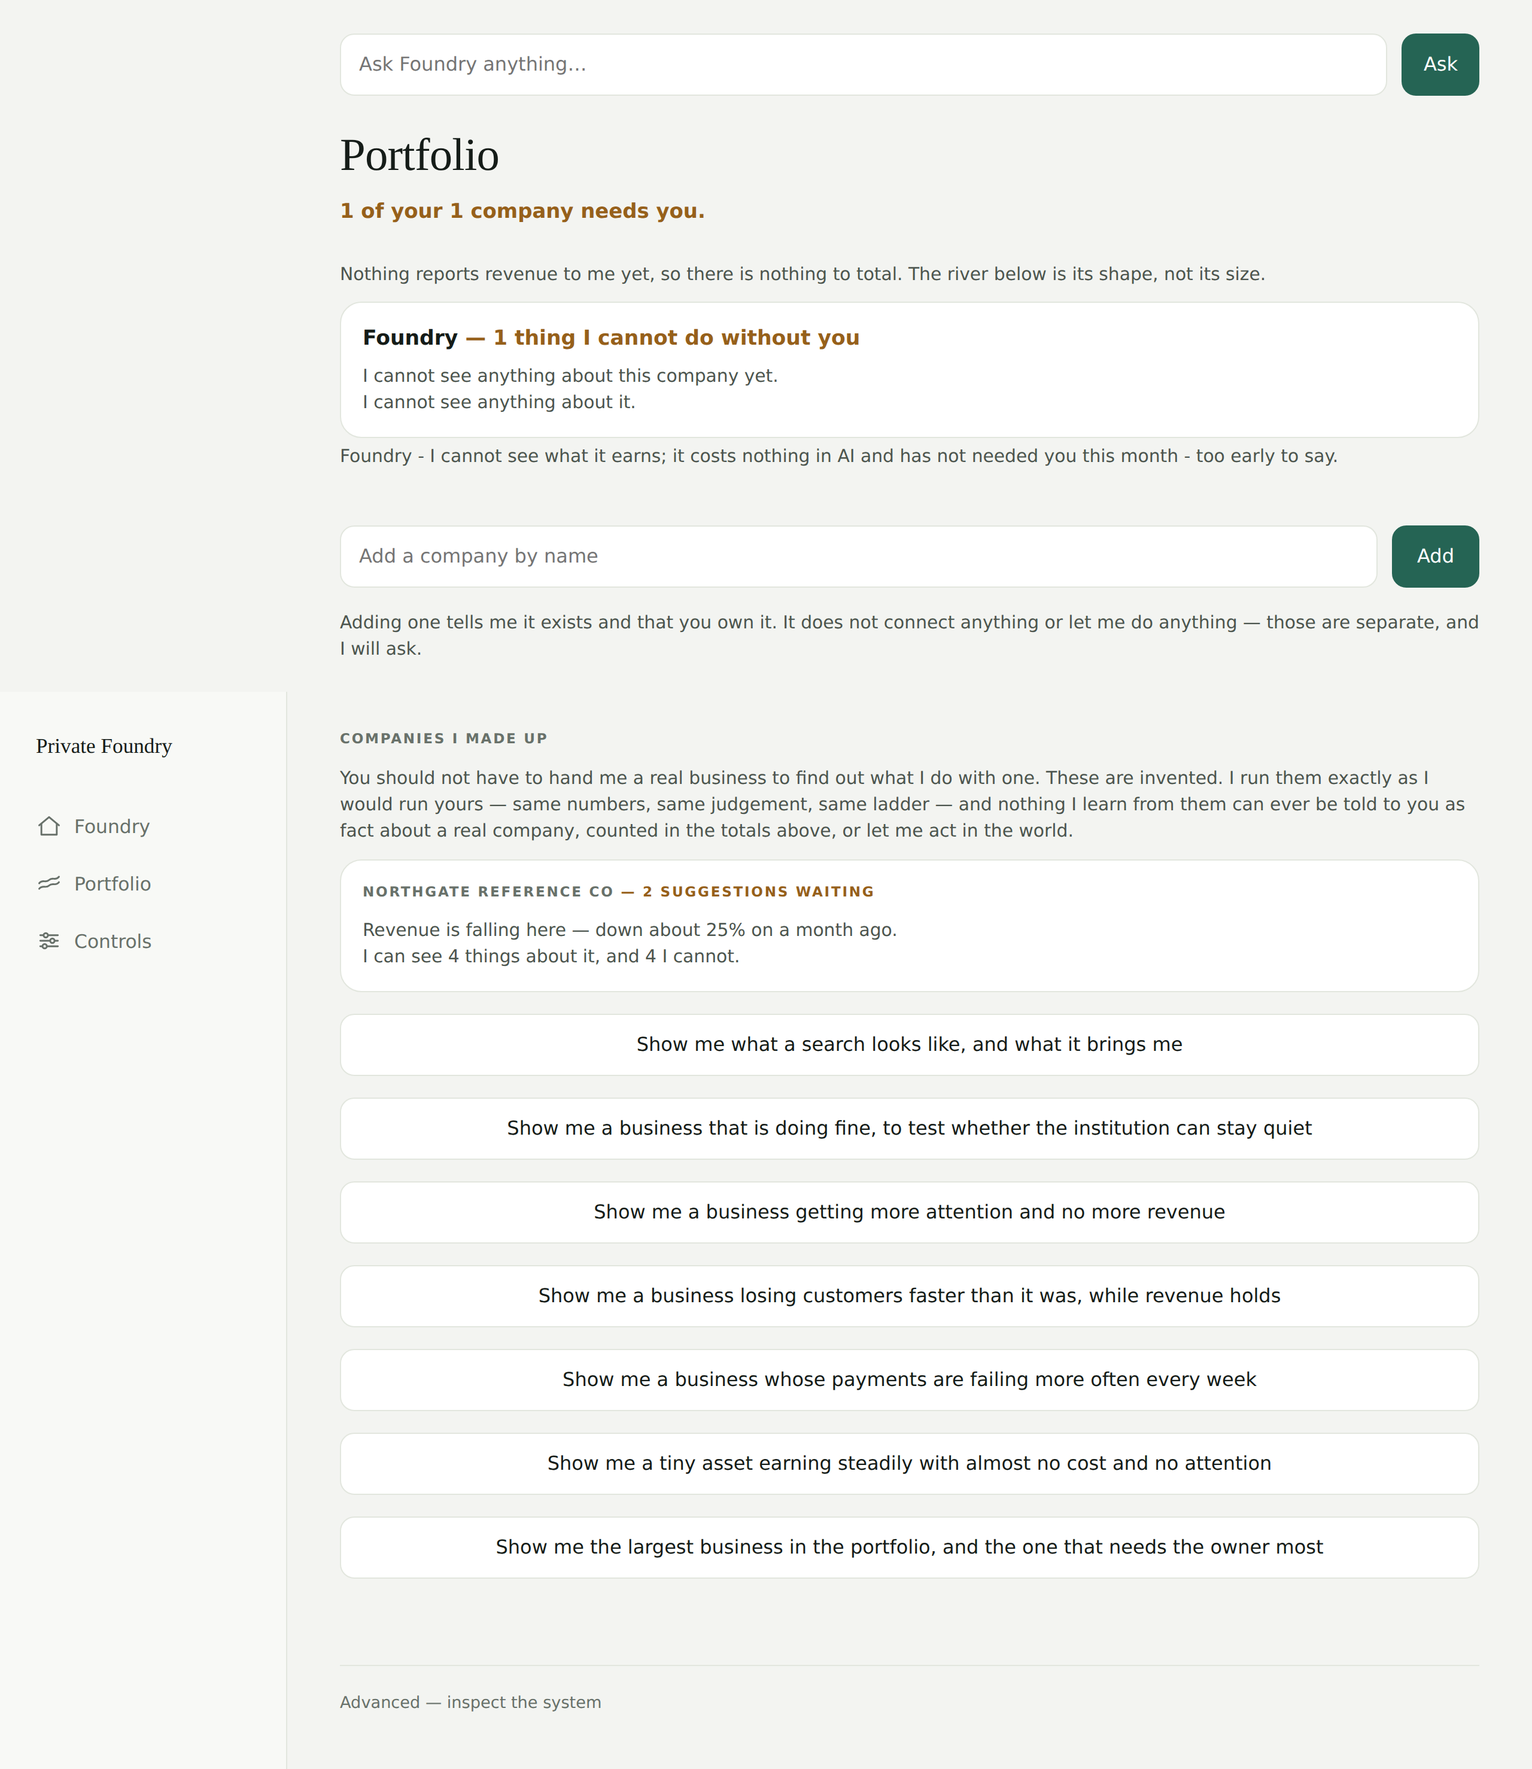
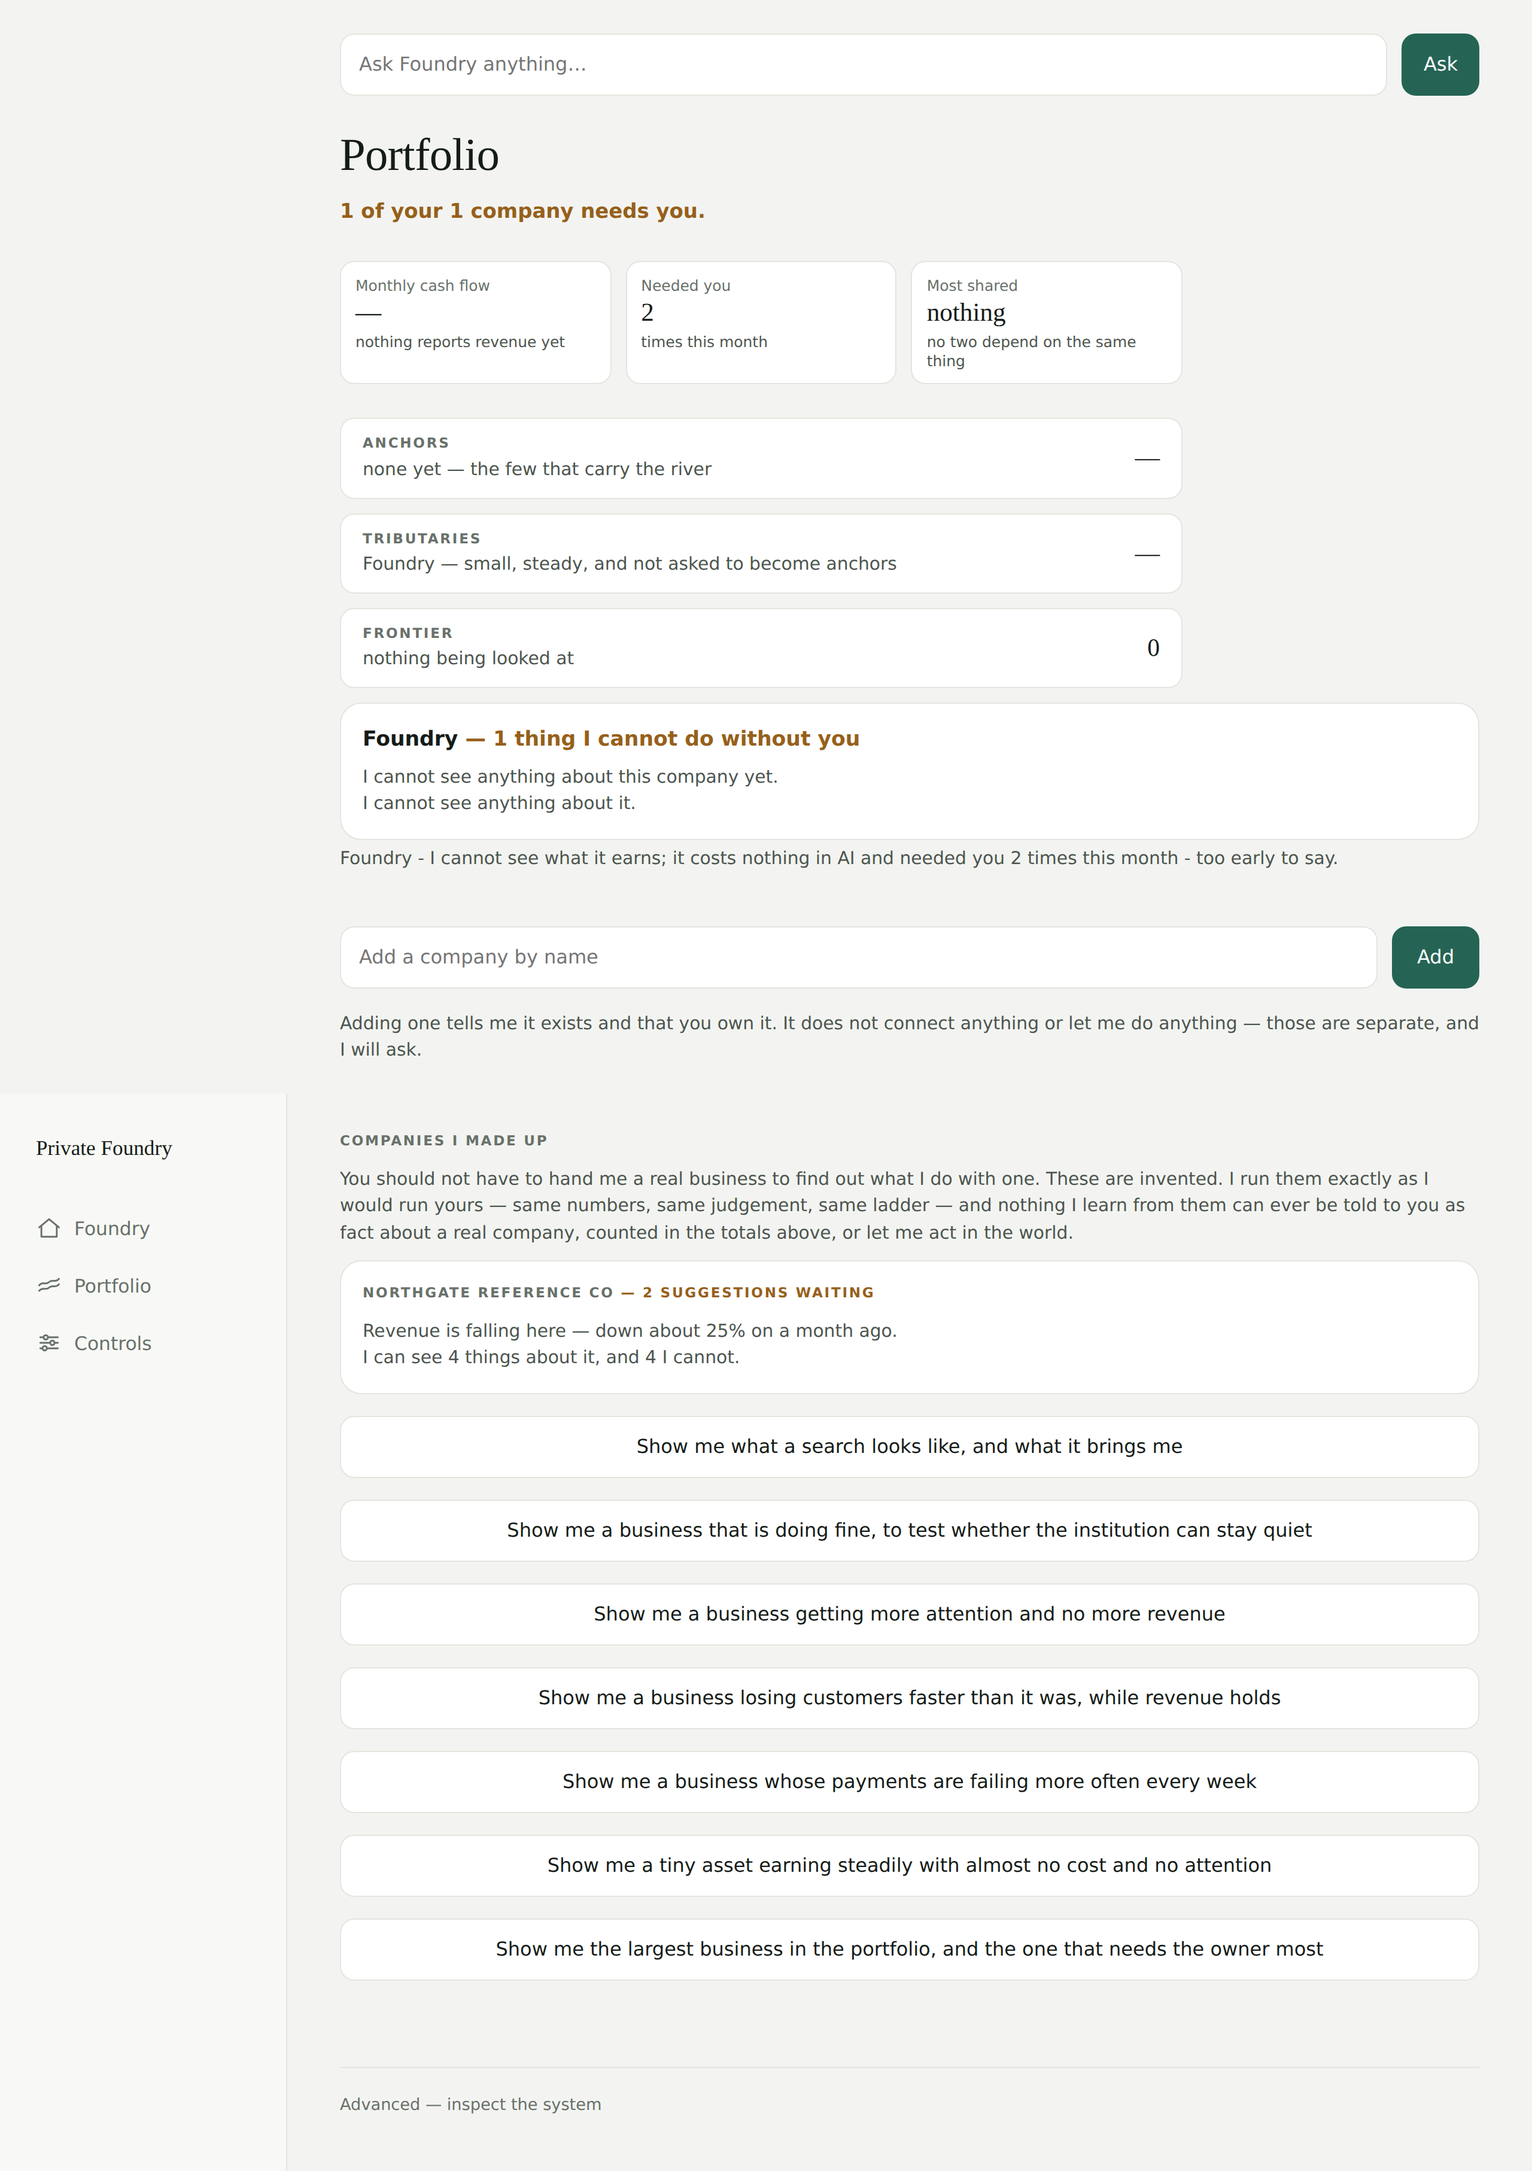
A number is only as good as the reading behind it [deploy-private]
MONTHLY CASH FLOW SUMMED READINGS OF ANY AGE. The subquery took each company's
most recent snapshot that ever existed, with no lower bound — so a business that
stopped reporting eight months ago kept contributing its final figure to today's
total, forever, and was counted among the companies Foundry "can see". Bounded
to forty-five days in all four places it is read. A company that has gone quiet
now falls out of the total and into the count of what cannot be seen, which is
what has actually happened to it.

"ON A MONTH AGO" COMPARED AGAINST A READING OF ANY AGE. The comparison took the
newest reading at least thirty days old and nothing stopped it being five
hundred days old. A company that reported twice — last week and two years ago —
had every one of its numbers described as having moved "on a month ago". The
window has a far edge now, and outside it there is no comparison, which the
sentences already knew how to say.

A PERCENTAGE OF ALMOST NOTHING IS NOT A PERCENTAGE. One signup becoming three
rendered as "up about 200%", which makes a business look like it is tripling.
Below a floor the absolute move is stated instead — "1 to 3 since a month ago,
too few to put a percentage on" — which is both honest and more useful: he can
see the numbers and decide for himself whether it is anything.

"NEEDED YOU" COUNTED WHAT HE GOT ROUND TO. The tile counted rows by the date he
answered, so a question raised three weeks ago and still sitting there counted
[…]

diff --git a/src/routes/dashboard/foundry-shell.ts b/src/routes/dashboard/foundry-shell.ts
@@ -308,7 +308,14 @@ interface OwnerState {
     path: string; verification: string[]; matched: number; wrong: number;
     /** WHICH OF THE THREE THINGS CALLED FOUNDRY this change would touch. */
     layer: string; layerPlainly: string }>;
-  budgetMonthly: number;
+  /**
+   * WHAT HE SET, OR NULL BECAUSE HE HAS NOT.
+   *
+   * This was rendered as "the limit you set", and nothing in the system has
+   * ever written to the column — it is a migration default of 50, attributed to
+   * him as his own decision on a page about what he has told Foundry it may do.
+   */
+  budgetMonthly: number | null;
   spent30d: number;
   connectedSenses: string[];
   establishedAt: string | null;
@@ -521,7 +528,8 @@ async function readOwnerState(
       const known = Object.values(CHECK_IN_PLAIN_WORDS).find((p) => proposal.includes('schema'));
       return { id: String(d.id), title: known?.name ?? proposal };
     }),
-    budgetMonthly: Number(product?.operating_budget_monthly_usd ?? 0),
+    budgetMonthly: product?.operating_budget_monthly_usd == null ? null
+      : Number(product.operating_budget_monthly_usd),
     spent30d: Number(product?.ai_cost_trailing_30d_usd ?? 0),
     connectedSenses: product?.github_repo_url ? ['its code'] : [],
     establishedAt: product?.created_at == null ? null : String(product.created_at).slice(0, 10),
@@ -1938,8 +1946,8 @@ function answerTo(key: string, s: OwnerState, a: Attention,
       ${s.connectedSenses.length === 0 ? html`<p>In practice I cannot use it: I have no way
         to reach the repository, so nothing I could change is reachable from here.</p>` : ''}`}
       <p>${s.spent30d === 0
-    ? html`I have spent nothing. Your limit is $${String(s.budgetMonthly)} a month.`
-    : html`I have spent $${s.spent30d.toFixed(2)} of your $${String(s.budgetMonthly)} this month.`}</p>
+    ? html`I have spent nothing.`
+    : html`I have spent $${s.spent30d.toFixed(2)} this month.`}</p>
     </div>`;
   }
 
@@ -2304,7 +2312,7 @@ foundryShellRoutes.get('/foundry', async (c) => {
  */
 interface CompanyView {
   id: string; name: string; established: string | null;
-  budgetMonthly: number; spent30d: number;
+  budgetMonthly: number | null; spent30d: number;
   knows: string[]; gaps: Array<{ missing: string; unlocks: string; connect: string | null }>;
   responsibilities: Array<{ title: string; state: string }>;
   numbers: CompanyNumbers;
@@ -2575,7 +2583,8 @@ async function readCompany(productId: string, founderId: string): Promise<Compan
         : p.costCents === 0 ? 'nothing'
           : `$${(p.costCents / 100).toFixed(2)}`,
     })),
-    budgetMonthly: Number(row.operating_budget_monthly_usd ?? 0),
+    budgetMonthly: row.operating_budget_monthly_usd == null ? null
+      : Number(row.operating_budget_monthly_usd),
     spent30d: Number(row.ai_cost_trailing_30d_usd ?? 0),
     knows, gaps,
     responsibilities: responsibilities.map((r) => ({
@@ -2638,6 +2647,7 @@ foundryShellRoutes.get('/foundry/companies', async (c: any) => {
   const byForm = ((await query(
     `SELECT e.value, SUM(COALESCE((SELECT m.mrr_cents FROM metric_snapshots m
         WHERE m.product_id = p.id AND m.mrr_cents IS NOT NULL
+                AND m.snapshot_date >= date('now','-45 day')
         ORDER BY m.snapshot_date DESC LIMIT 1), 0)) AS cents
        FROM portfolio_exposures e JOIN products p ON p.id = e.subject_id
       WHERE e.founder_id = ? AND e.subject_kind = 'company' AND e.dimension = 'revenue_model'
@@ -4265,7 +4275,11 @@ foundryShellRoutes.get('/foundry/controls', async (c: any) => {
       <h3>Money</h3>
       <ul>
         <li>$${s.spent30d.toFixed(2)} spent in the last 30 days.</li>
-        <li>$${String(s.budgetMonthly)} a month is the limit you set for ${s.companyName}.</li>
+        <li>${s.budgetMonthly === null
+    ? html`You have not set a monthly limit for ${s.companyName}. The daily ceilings
+      below are what actually stops me.`
+    : html`$${String(s.budgetMonthly)} a month is the limit you set for
+      ${s.companyName}.`}</li>
         <li>I stop thinking for a company at $2 a day, and for everything at $5 a day.</li>
       </ul>
       <p class="quiet">Watching costs nothing — comparing my own records uses no thinking.</p>

diff --git a/tests/unit/a-number-is-only-as-good-as-its-reading.test.ts b/tests/unit/a-number-is-only-as-good-as-its-reading.test.ts
@@ -1,0 +1,71 @@
+process.env.TURSO_DATABASE_URL = 'file::memory:';
+process.env.ENCRYPTION_KEY = '0'.repeat(64);
+import { beforeAll, describe, expect, it } from 'vitest';
+import { runMigrations } from '../../src/db/migrate.js';
+import { query } from '../../src/db/client.js';
+import { whatTheNumbersSay } from '../../src/services/founder/what-the-numbers-say.js';
+
+// =============================================================================
+// A NUMBER IS ONLY AS GOOD AS THE READING BEHIND IT.
+//
+// Three ways the numbers on his screens described something that had not
+// happened, all found by a review against senior standards.
+//
+// "Monthly cash flow" summed each company's last-ever reading with no lower
+// bound, so a business that stopped reporting eight months ago kept
+// contributing its final figure to today's total, forever.
+//
+// "on a month ago" compared against the newest reading at least thirty days
+// old — with nothing stopping it being five hundred days old. A company that
+// reported twice, last week and two years ago, had every number described as
+// having moved "on a month ago".
+//
+// And a percentage of almost nothing is not a percentage: one signup becoming
+// three rendered as "up about 200%", which makes a business look like it is
+// tripling.
+// =============================================================================
+
+const CO = 'numbers_co';
+beforeAll(async () => {
+  await runMigrations();
+  await query('INSERT INTO founders (id,clerk_user_id,email,name) VALUES (?,?,?,?)',
+    ['n_owner', 'clerk_n', 'owner@example.com', 'Owner']);
+  await query('INSERT INTO products (id, owner_id, name, status) VALUES (?,?,?,?)',
+    [CO, 'n_owner', 'Tidewater', 'active']);
+});
+
+async function snapshot(date: string, fields: Record<string, number>): Promise<void> {
+  const cols = Object.keys(fields);
+  await query(
+    `INSERT INTO metric_snapshots (id, product_id, snapshot_date, ${cols.join(', ')})
+     VALUES (?,?,?,${cols.map(() => '?').join(',')})`,
+    [`s_${date}_${String(Math.random()).slice(2, 8)}`, CO, date, ...cols.map((c) => fields[c] ?? 0)]);
+}
+
+describe('what a comparison is allowed to compare against', () => {
+  it('refuses to call a two-year-old reading "a month ago"', async () => {
+    await snapshot('2024-01-01', { mrr_cents: 100_000, signups_7d: 40 });
+    await snapshot(new Date().toISOString().slice(0, 10),
+      { mrr_cents: 140_000, signups_7d: 60 });
+    const read = await whatTheNumbersSay(CO);
+    const revenue = read.numbers.find((n) => n.label.includes('revenue'));
+    expect(revenue?.direction, 'no comparison is possible').toBeNull();
+    expect(revenue?.sentence).toContain('nothing from a month ago');
+  });
+
+  it('states the absolute move when the base is too small for a percentage', async () => {
+    const monthAgo = new Date(Date.now() - 32 * 864e5).toISOString().slice(0, 10);
+    await query('DELETE FROM metric_snapshots WHERE product_id = ?', [CO]);
+    await snapshot(monthAgo, { signups_7d: 1, mrr_cents: 500_000 });
+    await snapshot(new Date().toISOString().slice(0, 10),
+      { signups_7d: 3, mrr_cents: 600_000 });
+    const read = await whatTheNumbersSay(CO);
+    const signups = read.numbers.find((n) => n.label.includes('signup'));
+    expect(signups?.movement, 'one to three is not two hundred per cent')
+      .toContain('too few to put a percentage on');
+    expect(signups?.movement).toContain('1 to 3');
+    // And a real base still gets a percentage.
+    const revenue = read.numbers.find((n) => n.label === 'monthly revenue');
+    expect(revenue?.movement).toContain('%');
+  });
+});

diff --git a/src/services/founder/what-the-numbers-say.ts b/src/services/founder/what-the-numbers-say.ts
@@ -88,7 +88,7 @@ function formatted(kind: 'money' | 'rate' | 'count', value: number): string {
  * the sentence says "about", because two readings do not support a decimal
  * place of confidence.
  */
-function movement(previous: number, current: number): {
+function movement(previous: number, current: number, kind?: string): {
   direction: 'rose' | 'fell' | 'held'; phrase: string;
 } {
   if (previous === 0 || !Number.isFinite(previous)) {
@@ -96,6 +96,25 @@ function movement(previous: number, current: number): {
       ? { direction: 'held', phrase: 'unchanged' }
       : { direction: current > 0 ? 'rose' : 'fell', phrase: 'newly reported' };
   }
+
+  // A PERCENTAGE OF ALMOST NOTHING IS NOT A PERCENTAGE.
+  //
+  // Three signups where there was one is "up about 200%", and that sentence
+  // makes a business look like it is tripling. The absolute move is the honest
+  // description of a small base, and it is also the more useful one: he can see
+  // it went from one to three and decide for himself whether that is anything.
+  const small = kind === 'count' ? 10 : kind === 'money' ? 5000 : 0;
+  if (small > 0 && Math.abs(previous) < small) {
+    if (current === previous) return { direction: 'held', phrase: 'unchanged' };
+    const from = kind === 'money'
+      ? `$${(previous / 100).toFixed(0)} to $${(current / 100).toFixed(0)}`
+      : `${String(previous)} to ${String(current)}`;
+    return {
+      direction: current > previous ? 'rose' : 'fell',
+      phrase: `${from} since a month ago — too few to put a percentage on`,
+    };
+  }
+
   const change = (current - previous) / Math.abs(previous);
   const pct = Math.abs(change) * 100;
   if (pct < 1.5) return { direction: 'held', phrase: 'about the same as a month ago' };
@@ -133,11 +152,19 @@ export async function whatTheNumbersSay(productId: string): Promise<CompanyNumbe
   // A MONTH AGO MEANS THE NEAREST READING TO A MONTH AGO, not a reading dated
   // exactly then. Companies report on their own cadence, and a strict date
   // match silently produces "no comparison" for anyone reporting weekly.
+  //
+  // AND A MONTH AGO IS NOT FIVE HUNDRED DAYS AGO. The window had no far edge,
+  // so a company that reported twice — once last week and once two years ago —
+  // had every one of its numbers described as "up about 40% on a month ago".
+  // Outside the window there is no comparison, which the sentences already know
+  // how to say.
   const prior = (await query(
     `SELECT ${columns.join(', ')} FROM metric_snapshots
-      WHERE product_id = ? AND snapshot_date <= date(?, '-30 day')
+      WHERE product_id = ? AND snapshot_date <= date(?, '-21 day')
+        AND snapshot_date >= date(?, '-60 day')
       ORDER BY snapshot_date DESC LIMIT 1`,
-    [productId, String(latest.snapshot_date)])).rows[0] as Record<string, unknown> | undefined;
+    [productId, String(latest.snapshot_date), String(latest.snapshot_date)]))
+    .rows[0] as Record<string, unknown> | undefined;
 
   // THE LAST READINGS, for the trend beside each number. Bounded, oldest
   // first, and never more than the company actually reported.
@@ -166,7 +193,7 @@ export async function whatTheNumbersSay(productId: string): Promise<CompanyNumbe
       });
       continue;
     }
-    const moved = movement(Number(before), current);
+    const moved = movement(Number(before), current, spec.kind);
     numbers.push({
       label: spec.label, now, direction: moved.direction,
       sentence: `${spec.label} is ${now}, ${moved.phrase}.`,

diff --git a/src/services/founder/burden.ts b/src/services/founder/burden.ts
@@ -50,6 +50,7 @@ export async function burdenFor(founderId: string): Promise<Burden[]> {
             COALESCE(p.ai_cost_trailing_30d_usd, 0) AS ai_usd,
             (SELECT m.mrr_cents FROM metric_snapshots m
               WHERE m.product_id = p.id AND m.mrr_cents IS NOT NULL
+                AND m.snapshot_date >= date('now','-45 day')
               ORDER BY m.snapshot_date DESC LIMIT 1) AS mrr_cents
        FROM products p
       WHERE p.owner_id = ? AND p.status = 'active' AND p.deleted_at IS NULL
@@ -60,12 +61,20 @@ export async function burdenFor(founderId: string): Promise<Burden[]> {
   const out: Burden[] = [];
   for (const c of companies) {
     const productId = String(c.id);
+    // WHAT NEEDED HIM, NOT WHAT HE GOT ROUND TO.
+    //
+    // This counted rows by `decided_at`, which is the date he answered — so a
+    // question raised three weeks ago and still sitting there counted as zero
+    // interruptions, and the tile said "not once this month" on a screen that
+    // was at that moment asking him for something. Ignoring him made the burden
+    // look smaller. Demand is what the owner-adjusted measure is about, so it
+    // is counted from when it was raised.
     const asked = (await query(
       `SELECT 'a decision about ' || subject AS what FROM proposed_acts
-        WHERE product_id = ? AND decided_at >= datetime('now', ?)
+        WHERE product_id = ? AND proposed_at >= datetime('now', ?)
        UNION ALL
        SELECT 'advice about ' || kind FROM situation_recommendations
-        WHERE product_id = ? AND decided_at >= datetime('now', ?)`,
+        WHERE product_id = ? AND raised_at >= datetime('now', ?)`,
       [productId, `-${String(DAYS)} days`, productId, `-${String(DAYS)} days`]))
       .rows as unknown as Array<Record<string, unknown>>;
     const interruptions = asked.length;

diff --git a/src/services/founder/portfolio.ts b/src/services/founder/portfolio.ts
@@ -260,6 +260,7 @@ export async function glanceFor(founderId: string): Promise<Glance> {
     `SELECT p.id,
             (SELECT m.mrr_cents FROM metric_snapshots m
               WHERE m.product_id = p.id AND m.mrr_cents IS NOT NULL
+                AND m.snapshot_date >= date('now','-45 day')
               ORDER BY m.snapshot_date DESC LIMIT 1) AS mrr_cents
        FROM products p
       WHERE p.owner_id = ? AND p.status = 'active' AND p.deleted_at IS NULL
@@ -304,6 +305,7 @@ export async function layersFor(founderId: string): Promise<{
     `SELECT p.id, p.name, p.posture,
             (SELECT m.mrr_cents FROM metric_snapshots m
               WHERE m.product_id = p.id AND m.mrr_cents IS NOT NULL
+                AND m.snapshot_date >= date('now','-45 day')
               ORDER BY m.snapshot_date DESC LIMIT 1) AS mrr_cents
        FROM products p
       WHERE p.owner_id = ? AND p.status = 'active' AND p.deleted_at IS NULL
